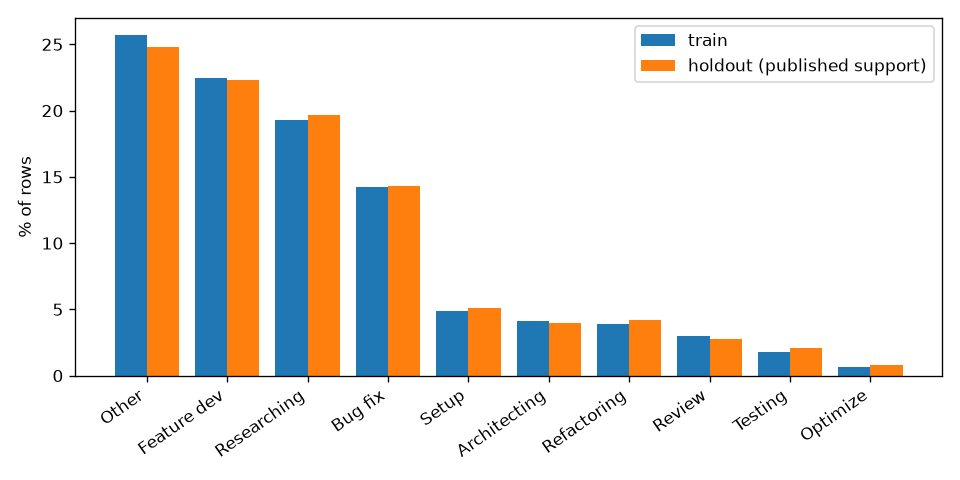
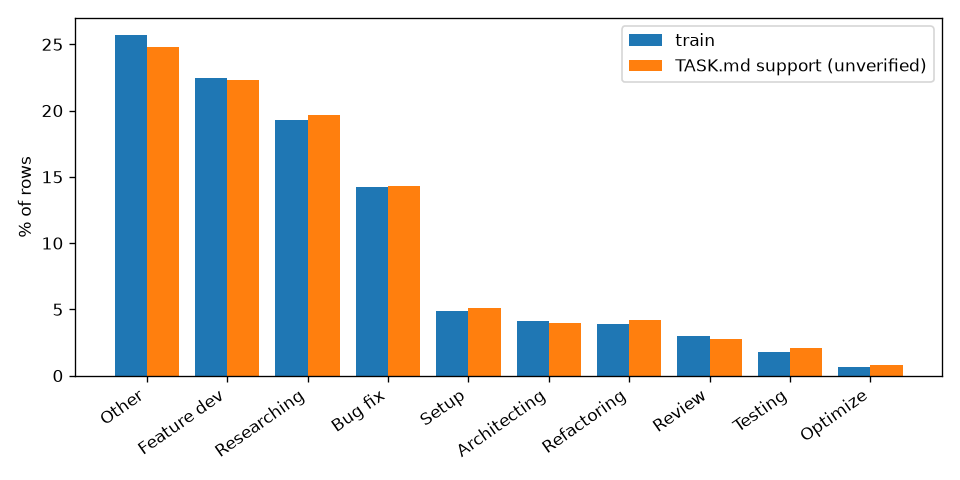
Evaluation: scale bootstrap by train proportions, drop dependency on TASK.md support column

Changed region(s): [[0.6562, 0.125, 0.9688, 0.1562], [0.6562, 0.0625, 0.75, 0.0938]]

diff --git a/src/evaluation.py b/src/evaluation.py
@@ -6,11 +6,11 @@ an (n, 10) probability matrix in LABELS order.
 Reported per class: precision, recall, F1, support, ROC-AUC, PR-AUC, with 95% bootstrap CIs; overall:
 accuracy, macro-F1, min-F1 (the TASK.md bar is min-F1 ≥ 0.8); and the confusion matrix.
 
-Confidence intervals are computed at **holdout scale**: each bootstrap replicate draws, per class, exactly
-the holdout support published in TASK.md (e.g. 49 Optimize rows) from the OOF rows of that class, with
-replacement. The interval therefore says how much the holdout score can move by sampling alone.
-Precision and PR-AUC depend on prevalence, so their holdout-scale CIs can sit slightly off the OOF point
-estimate when a class is a little more frequent in the holdout than in train (e.g. Testing 2.1% vs 1.8%).
+Confidence intervals are computed at **holdout scale**: each bootstrap replicate has 6,199 rows (the size
+of holdout.jsonl) with the *train* class proportions (e.g. 39 Optimize rows), drawn per class from the OOF
+rows of that class, with replacement. The interval therefore says how much a score on a holdout-sized
+sample can move by sampling alone. Only train.jsonl is used; the support column printed in TASK.md is not
+an input (we cannot verify what it counts).
 
 p-values:
 - `p(F1 ≤ 0.8)`: one-sided bootstrap test of H0 "class F1 is at or below the bar"; small = bar met.
@@ -35,7 +35,7 @@ LABELS = ["Bug fix", "Feature dev", "Refactoring", "Architecting", "Researching"
           "Testing", "Review", "Optimize", "Setup", "Other"]
 K = len(LABELS)
 LABEL2ID = {lab: i for i, lab in enumerate(LABELS)}
-HOLDOUT_SUPPORT = np.array([885, 1381, 262, 247, 1221, 128, 171, 49, 316, 1539])
+HOLDOUT_ROWS = 6199  # len(holdout.jsonl)
 BAR = 0.8
 
 
@@ -56,12 +56,20 @@ def _prf_from_cm(cm: np.ndarray) -> tuple[np.ndarray, np.ndarray, np.ndarray]:
     return p, r, f
 
 
+def boot_class_counts(y: np.ndarray) -> np.ndarray:
+    """Rows per class in a holdout-sized replicate: train proportions × HOLDOUT_ROWS (largest remainder)."""
+    exact = np.bincount(y, minlength=K) / len(y) * HOLDOUT_ROWS
+    counts = np.floor(exact).astype(int)
+    counts[np.argsort(-(exact - counts))[:HOLDOUT_ROWS - counts.sum()]] += 1
+    return counts
+
+
 def _stratified_boot_idx(y: np.ndarray, rng: np.random.Generator, n_boot: int) -> np.ndarray:
-    """(n_boot, sum(HOLDOUT_SUPPORT)) row indices, holdout class counts per replicate."""
+    """(n_boot, HOLDOUT_ROWS) row indices, class counts fixed by boot_class_counts."""
     parts = []
-    for c in range(K):
+    for c, n_c in enumerate(boot_class_counts(y)):
         rows = np.flatnonzero(y == c)
-        parts.append(rows[rng.integers(0, len(rows), size=(n_boot, HOLDOUT_SUPPORT[c]))])
+        parts.append(rows[rng.integers(0, len(rows), size=(n_boot, n_c))])
     return np.concatenate(parts, axis=1)
 
 
@@ -105,7 +113,7 @@ def evaluate(y_true, y_pred, proba: np.ndarray | None = None, n_boot: int = 1000
         per["p(AUC=0.5)"] = p_auc
         per["PR-AUC"] = pr
         per["PR lo"], per["PR hi"] = np.array(pr_ci).T
-        per["PR chance"] = HOLDOUT_SUPPORT / HOLDOUT_SUPPORT.sum()
+        per["PR chance"] = np.bincount(y, minlength=K) / len(y)
 
     macro = f1.mean()
     perm_macro = []

diff --git a/src/01_eda.py b/src/01_eda.py
@@ -24,7 +24,8 @@ RNG = np.random.default_rng(0)
 
 LABELS = ["Bug fix", "Feature dev", "Refactoring", "Architecting", "Researching",
           "Testing", "Review", "Optimize", "Setup", "Other"]
-# Holdout support published in TASK.md (DistilBERT table).
+# 'Support' column printed in TASK.md (DistilBERT table). Context only: presumably the teacher-label
+# counts of the holdout, but TASK.md does not say so and the labels are noisy. Not used anywhere else.
 HOLDOUT_SUPPORT = {"Bug fix": 885, "Feature dev": 1381, "Refactoring": 262, "Architecting": 247,
                    "Researching": 1221, "Testing": 128, "Review": 171, "Optimize": 49,
                    "Setup": 316, "Other": 1539}
@@ -80,9 +81,9 @@ md()
 dist = pd.DataFrame({
     "train n": train.label.value_counts().reindex(LABELS),
     "train %": train.label.value_counts(normalize=True).reindex(LABELS) * 100,
-    "holdout n (TASK.md)": pd.Series(HOLDOUT_SUPPORT),
+    "TASK.md support (unverified)": pd.Series(HOLDOUT_SUPPORT),
 })
-dist["holdout %"] = dist["holdout n (TASK.md)"] / dist["holdout n (TASK.md)"].sum() * 100
+dist["TASK.md support %"] = dist["TASK.md support (unverified)"] / dist["TASK.md support (unverified)"].sum() * 100
 dist = dist.sort_values("train n", ascending=False)
 table(dist, ".1f")
 md(f"Imbalance ratio largest/smallest class: {dist['train n'].max() / dist['train n'].min():.0f}×")
@@ -91,7 +92,7 @@ md()
 fig, ax = plt.subplots(figsize=(8, 4))
 x = np.arange(len(dist))
 ax.bar(x - 0.2, dist["train %"], 0.4, label="train")
-ax.bar(x + 0.2, dist["holdout %"], 0.4, label="holdout (published support)")
+ax.bar(x + 0.2, dist["TASK.md support %"], 0.4, label="TASK.md support (unverified)")
 ax.set_xticks(x, dist.index, rotation=35, ha="right")
 ax.set_ylabel("% of rows")
 ax.legend()

diff --git a/reports/02_folds.md b/reports/02_folds.md
@@ -26,21 +26,21 @@ Max deviation of any class share from its overall share: 0.02 pp.
 
 |              |   support (OOF) |   precision |   recall |    F1 | P 95% CI    | R 95% CI    | F1 95% CI   |   p(F1≤0.8) | ROC-AUC (CI)        |   p(AUC=0.5) | PR-AUC (CI)         |   PR chance |
 |:-------------|----------------:|------------:|---------:|------:|:------------|:------------|:------------|------------:|:--------------------|-------------:|:--------------------|------------:|
-| Bug fix      |            3536 |       0.155 |    0.040 | 0.064 | 0.108–0.200 | 0.027–0.053 | 0.043–0.084 |       1.000 | 0.507 (0.485–0.526) |        0.096 | 0.147 (0.137–0.157) |       0.143 |
-| Feature dev  |            5574 |       0.225 |    0.295 | 0.255 | 0.207–0.238 | 0.272–0.319 | 0.236–0.272 |       1.000 | 0.503 (0.487–0.517) |        0.230 | 0.227 (0.215–0.235) |       0.223 |
-| Refactoring  |             971 |       0.000 |    0.000 | 0.000 | 0.000–0.000 | 0.000–0.000 | 0.000–0.000 |       1.000 | 0.513 (0.484–0.546) |        0.082 | 0.040 (0.040–0.050) |       0.042 |
-| Architecting |            1016 |       0.000 |    0.000 | 0.000 | 0.000–0.000 | 0.000–0.000 | 0.000–0.000 |       1.000 | 0.484 (0.447–0.520) |        0.960 | 0.040 (0.035–0.048) |       0.040 |
-| Researching  |            4782 |       0.203 |    0.156 | 0.177 | 0.184–0.234 | 0.137–0.178 | 0.156–0.200 |       1.000 | 0.500 (0.484–0.517) |        0.540 | 0.195 (0.192–0.211) |       0.197 |
-| Testing      |             436 |       0.000 |    0.000 | 0.000 | 0.000–0.000 | 0.000–0.000 | 0.000–0.000 |       1.000 | 0.481 (0.429–0.532) |        0.910 | 0.017 (0.018–0.025) |       0.021 |
-| Review       |             736 |       0.000 |    0.000 | 0.000 | 0.000–0.000 | 0.000–0.000 | 0.000–0.000 |       1.000 | 0.515 (0.470–0.549) |        0.082 | 0.032 (0.026–0.045) |       0.028 |
-| Optimize     |             155 |       0.000 |    0.000 | 0.000 | 0.000–0.000 | 0.000–0.000 | 0.000–0.000 |       1.000 | 0.488 (0.414–0.562) |        0.700 | 0.006 (0.007–0.011) |       0.008 |
-| Setup        |            1214 |       0.000 |    0.000 | 0.000 | 0.000–0.000 | 0.000–0.000 | 0.000–0.000 |       1.000 | 0.501 (0.467–0.535) |        0.440 | 0.049 (0.047–0.060) |       0.051 |
-| Other        |            6372 |       0.261 |    0.528 | 0.350 | 0.242–0.262 | 0.502–0.554 | 0.327–0.355 |       1.000 | 0.503 (0.488–0.521) |        0.230 | 0.257 (0.240–0.261) |       0.248 |
+| Bug fix      |            3536 |       0.155 |    0.040 | 0.064 | 0.107–0.198 | 0.027–0.053 | 0.044–0.083 |       1.000 | 0.507 (0.483–0.527) |        0.096 | 0.147 (0.138–0.158) |       0.143 |
+| Feature dev  |            5574 |       0.225 |    0.295 | 0.255 | 0.209–0.243 | 0.272–0.319 | 0.237–0.276 |       1.000 | 0.503 (0.484–0.520) |        0.230 | 0.227 (0.218–0.238) |       0.225 |
+| Refactoring  |             971 |       0.000 |    0.000 | 0.000 | 0.000–0.000 | 0.000–0.000 | 0.000–0.000 |       1.000 | 0.513 (0.479–0.549) |        0.082 | 0.040 (0.037–0.047) |       0.039 |
+| Architecting |            1016 |       0.000 |    0.000 | 0.000 | 0.000–0.000 | 0.000–0.000 | 0.000–0.000 |       1.000 | 0.484 (0.450–0.520) |        0.960 | 0.040 (0.037–0.049) |       0.041 |
+| Researching  |            4782 |       0.203 |    0.156 | 0.177 | 0.181–0.228 | 0.135–0.178 | 0.155–0.199 |       1.000 | 0.500 (0.485–0.518) |        0.540 | 0.195 (0.188–0.207) |       0.193 |
+| Testing      |             436 |       0.000 |    0.000 | 0.000 | 0.000–0.000 | 0.000–0.000 | 0.000–0.000 |       1.000 | 0.481 (0.424–0.536) |        0.910 | 0.017 (0.015–0.022) |       0.018 |
+| Review       |             736 |       0.000 |    0.000 | 0.000 | 0.000–0.000 | 0.000–0.000 | 0.000–0.000 |       1.000 | 0.515 (0.469–0.553) |        0.082 | 0.032 (0.028–0.047) |       0.030 |
+| Optimize     |             155 |       0.000 |    0.000 | 0.000 | 0.000–0.000 | 0.000–0.000 | 0.000–0.000 |       1.000 | 0.488 (0.400–0.586) |        0.700 | 0.006 (0.005–0.009) |       0.006 |
+| Setup        |            1214 |       0.000 |    0.000 | 0.000 | 0.000–0.000 | 0.000–0.000 | 0.000–0.000 |       1.000 | 0.501 (0.468–0.538) |        0.440 | 0.049 (0.044–0.057) |       0.049 |
+| Other        |            6372 |       0.261 |    0.528 | 0.350 | 0.250–0.271 | 0.505–0.554 | 0.335–0.364 |       1.000 | 0.503 (0.490–0.519) |        0.230 | 0.257 (0.248–0.269) |       0.257 |
 
 |                       |   value |      lo |      hi |   p-value |
 |:----------------------|--------:|--------:|--------:|----------:|
-| accuracy              |   0.238 |   0.224 |   0.242 |   nan     |
-| macro-F1              |   0.085 |   0.080 |   0.088 |     0.015 |
+| accuracy              |   0.238 |   0.229 |   0.247 |   nan     |
+| macro-F1              |   0.085 |   0.081 |   0.089 |     0.015 |
 | min-F1 (bar)          |   0.000 |   0.000 |   0.000 |     1.000 |
 | classes with F1 ≥ 0.8 |   0.000 | nan     | nan     |   nan     |
 

diff --git a/LOG.md b/LOG.md
@@ -81,7 +81,7 @@ Script: `src/01_eda.py` → `reports/01_eda.md` + `reports/figures/01_*.png`.
 - **Evaluation module** (`src/evaluation.py`), used by every model on out-of-fold predictions:
   - Per class: precision, recall, F1, ROC-AUC and PR-AUC (one-vs-rest).
   - Overall: confusion matrix, accuracy, macro-F1, and **min-F1**, the bar from TASK.md.
-  - **95% bootstrap CIs at holdout scale.** Each replicate draws, per class, exactly the holdout support published in TASK.md (e.g. 49 Optimize rows), so each interval shows how much the holdout score can move from sampling alone.
+  - **95% bootstrap CIs at holdout scale.** Each replicate has 6,199 rows (the holdout size) with the train class proportions (e.g. 39 Optimize rows), so each interval shows how much a score on a holdout-sized sample can move from sampling alone.
 - **p-values:**
   - `p(F1≤0.8)`: one-sided bootstrap test that the class misses the bar.
   - `p(AUC=0.5)`: Mann–Whitney U.
@@ -91,5 +91,8 @@ Script: `src/01_eda.py` → `reports/01_eda.md` + `reports/figures/01_*.png`.
   - A random classifier gives AUC ≈ 0.5, `p(F1≤0.8)` = 1 for every class, and no significant AUCs.
   - Under random predictions, 10 runs of the permutation p-value come out roughly uniform (0.005–0.99), so the test is calibrated.
   - Results: `reports/02_folds.md`.
+
+- **Revision (Shay's review):** the first version scaled the bootstrap to the per-class "Support" column printed in TASK.md. That column presumably counts the holdout's teacher labels, but TASK.md does not say so explicitly, and those labels are noisy anyway. The bootstrap now uses train proportions × 6,199, and the evaluation depends on `train.jsonl` only. The TASK.md column is shown in the EDA as unverified context and is not used anywhere else.
+- **Reminder on label quality:** all scores, ours and Zuzai's, measure agreement with the teacher LLM, not correctness. Disagreement between the teacher's labels on near-identical text (EDA §4) caps what any model can reach. The note will separate model errors from these collisions.
 
 **Next** — Step 3, model exploration (candidates proposed by Shay: code-tuned embeddings + linear/LogReg/SVM; DeBERTa-v3 fine-tune; Hugging Face search for task-related models).

diff --git a/reports/01_eda.md b/reports/01_eda.md
@@ -16,18 +16,18 @@ Generated by `src/01_eda.py`.
 
 ## 2. Label distribution
 
-|              |   train n |   train % |   holdout n (TASK.md) |   holdout % |
-|:-------------|----------:|----------:|----------------------:|------------:|
-| Other        |    6372.0 |      25.7 |                1539.0 |        24.8 |
-| Feature dev  |    5574.0 |      22.5 |                1381.0 |        22.3 |
-| Researching  |    4782.0 |      19.3 |                1221.0 |        19.7 |
-| Bug fix      |    3536.0 |      14.3 |                 885.0 |        14.3 |
-| Setup        |    1214.0 |       4.9 |                 316.0 |         5.1 |
-| Architecting |    1016.0 |       4.1 |                 247.0 |         4.0 |
-| Refactoring  |     971.0 |       3.9 |                 262.0 |         4.2 |
-| Review       |     736.0 |       3.0 |                 171.0 |         2.8 |
-| Testing      |     436.0 |       1.8 |                 128.0 |         2.1 |
-| Optimize     |     155.0 |       0.6 |                  49.0 |         0.8 |
+|              |   train n |   train % |   TASK.md support (unverified) |   TASK.md support % |
+|:-------------|----------:|----------:|-------------------------------:|--------------------:|
+| Other        |    6372.0 |      25.7 |                         1539.0 |                24.8 |
+| Feature dev  |    5574.0 |      22.5 |                         1381.0 |                22.3 |
+| Researching  |    4782.0 |      19.3 |                         1221.0 |                19.7 |
+| Bug fix      |    3536.0 |      14.3 |                          885.0 |                14.3 |
+| Setup        |    1214.0 |       4.9 |                          316.0 |                 5.1 |
+| Architecting |    1016.0 |       4.1 |                          247.0 |                 4.0 |
+| Refactoring  |     971.0 |       3.9 |                          262.0 |                 4.2 |
+| Review       |     736.0 |       3.0 |                          171.0 |                 2.8 |
+| Testing      |     436.0 |       1.8 |                          128.0 |                 2.1 |
+| Optimize     |     155.0 |       0.6 |                           49.0 |                 0.8 |
 
 Imbalance ratio largest/smallest class: 41×
 
